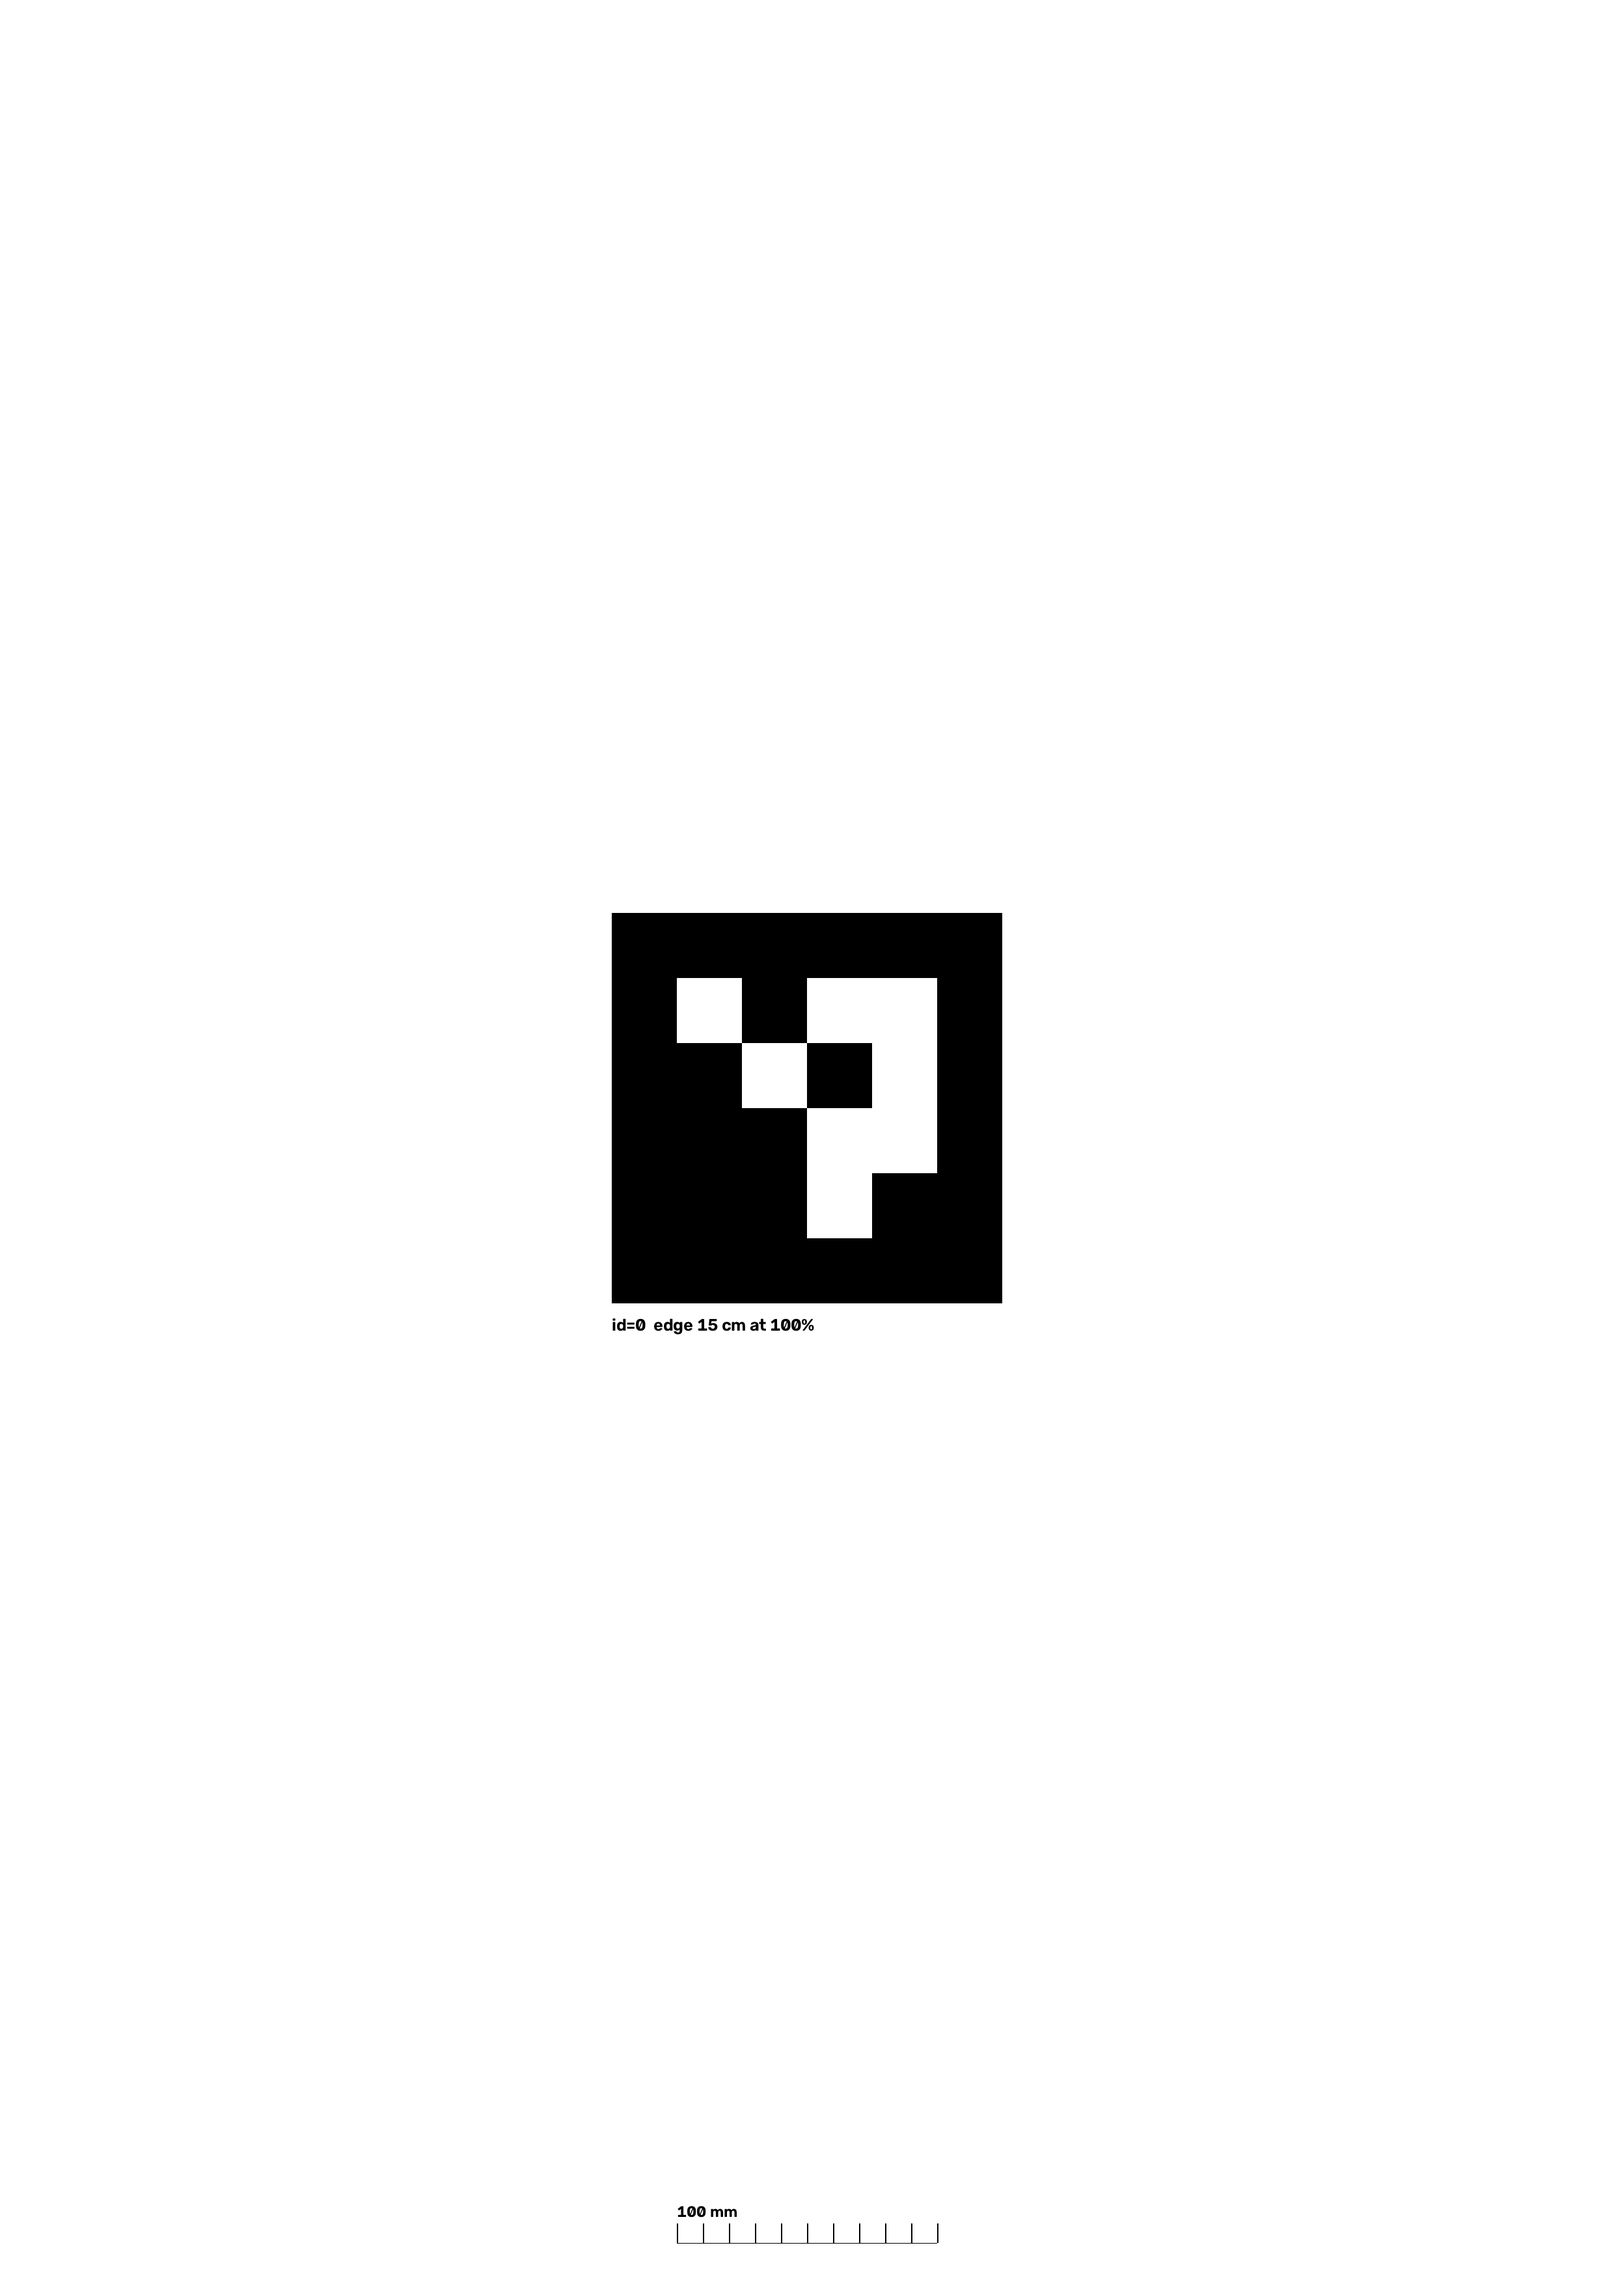
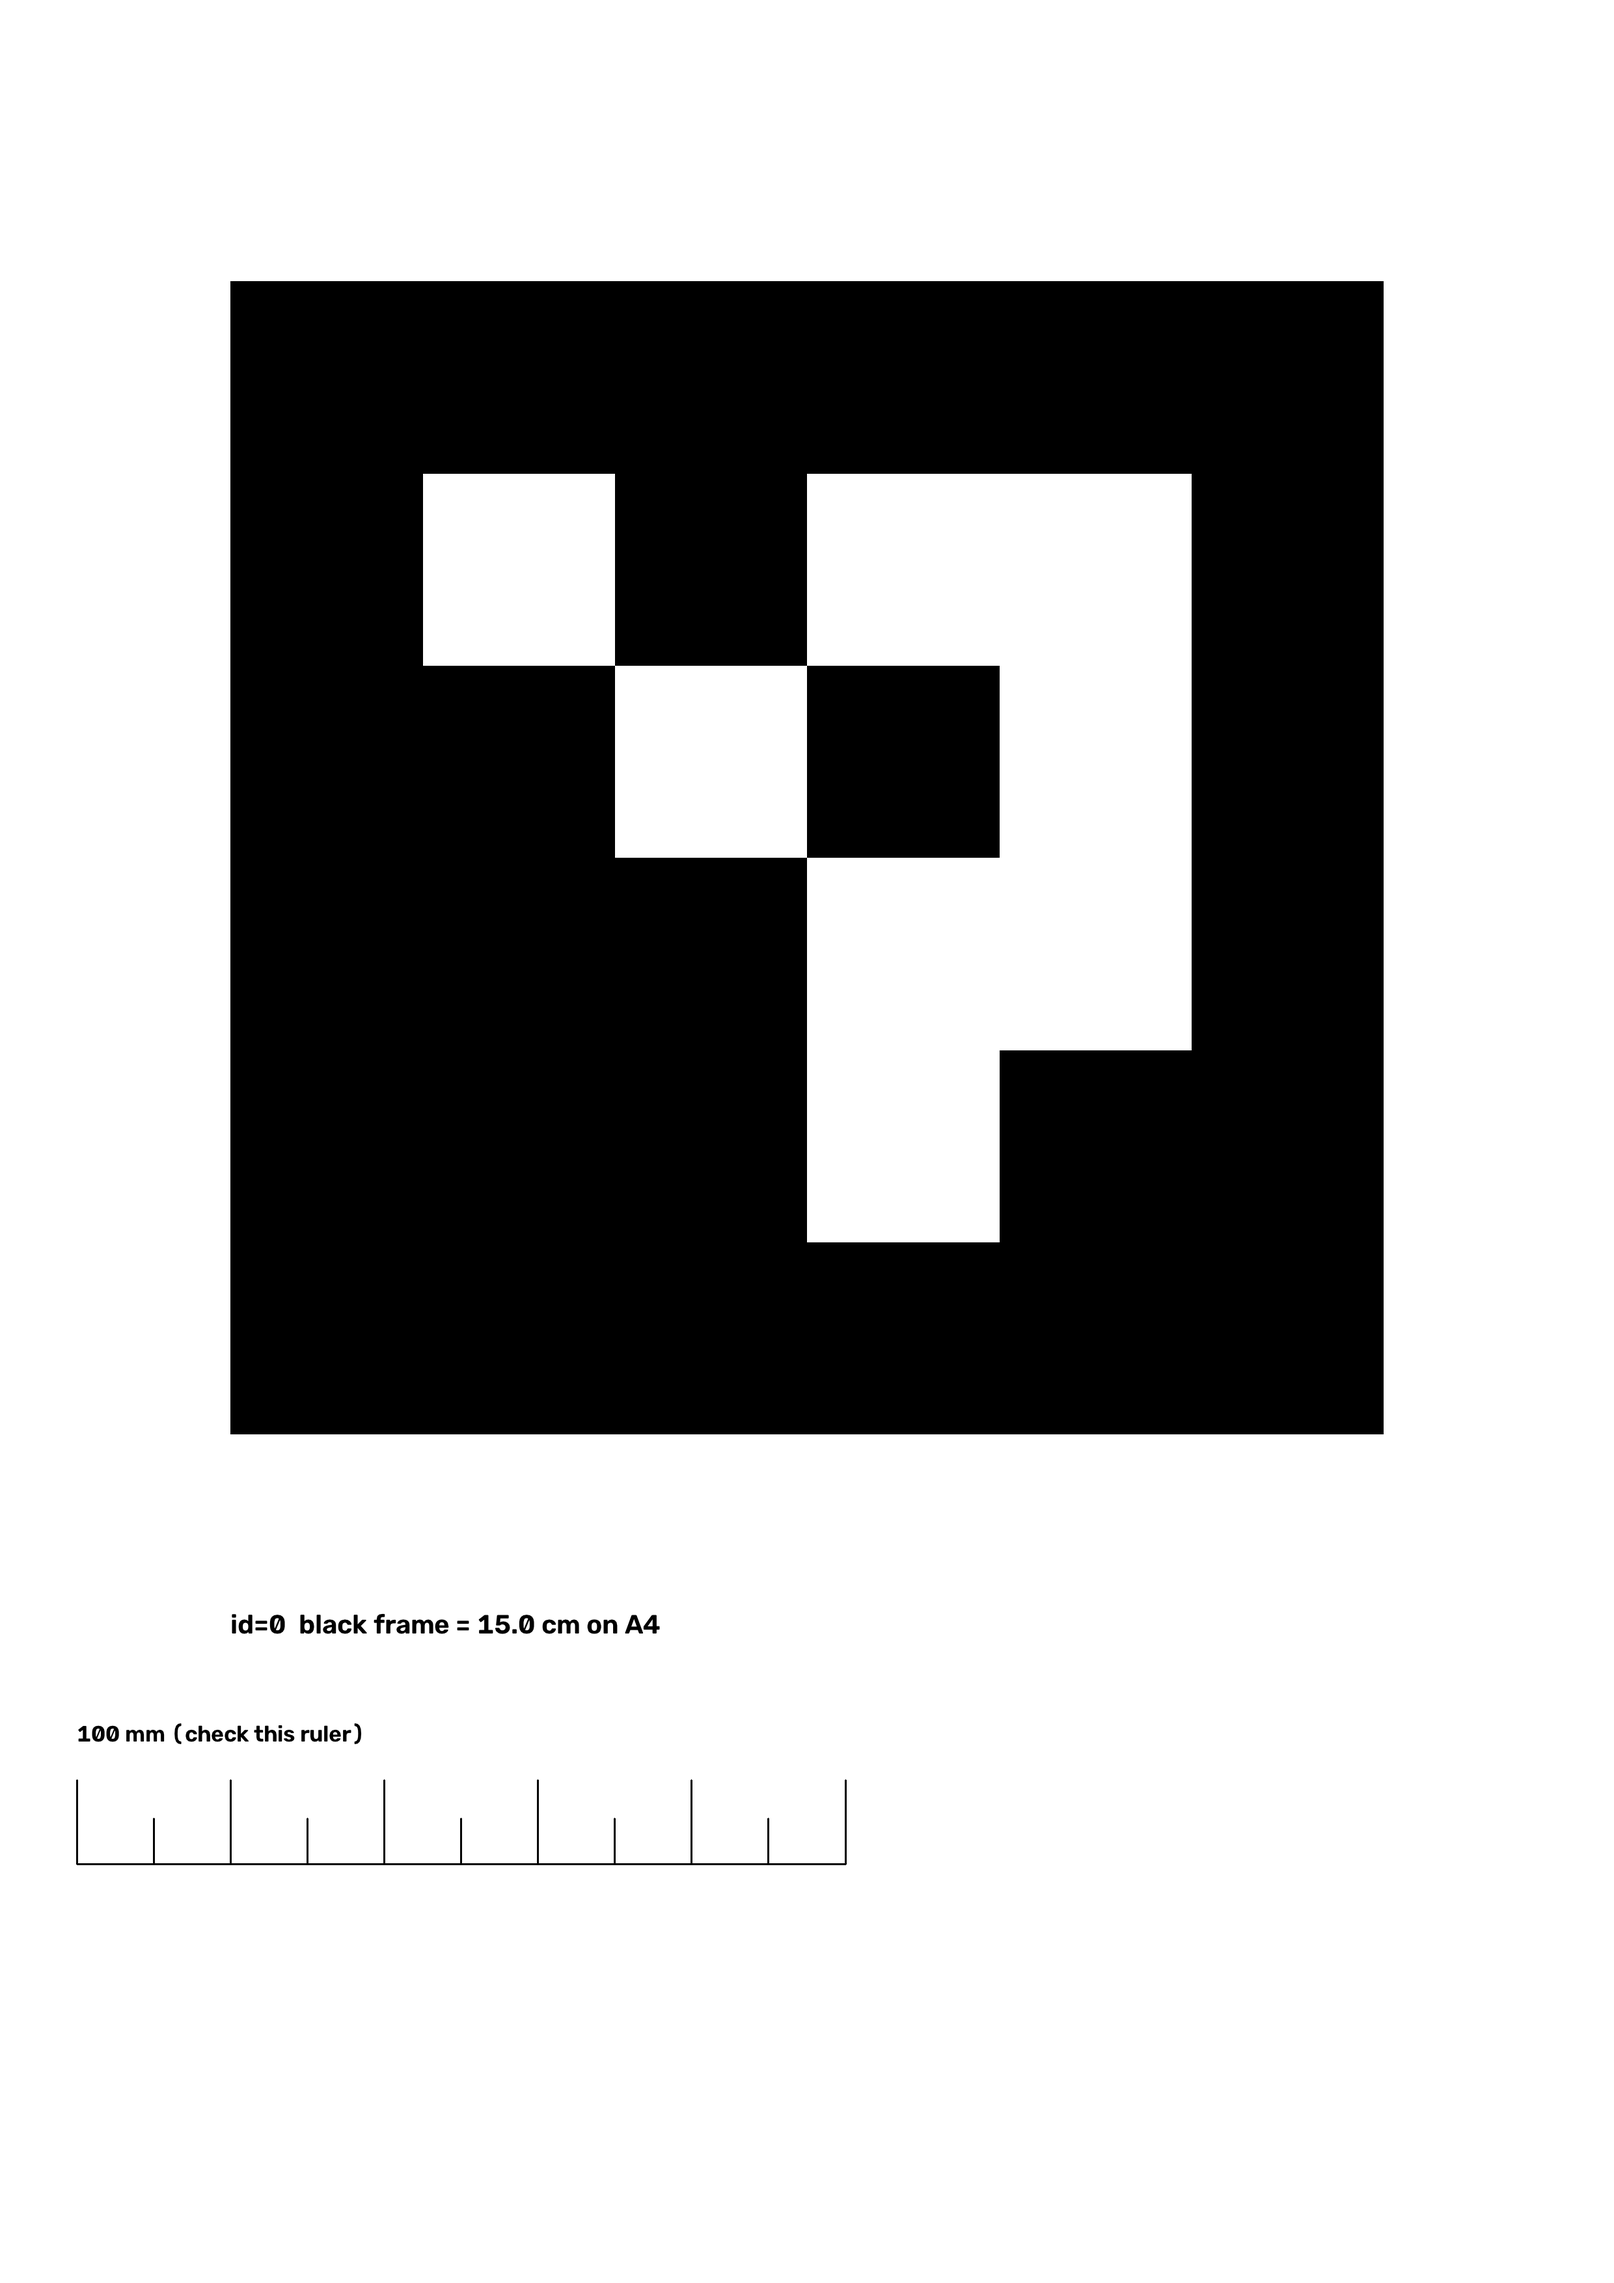
marker print assets: gen_marker_sheet rework -- exact 15.0 cm black frame at 300 dpi full-bleed A4 (native uncropped markers, outer frame == page pixel size), 100 mm ruler to verify printer scaling, 6-up 60 mm dry-run sheet, detector self-check; regenerate marker_00-05_A4 + marker_sheet_6up_A4 PNGs

diff --git a/vo/gen_marker_sheet.py b/vo/gen_marker_sheet.py
@@ -1,24 +1,30 @@
 # -*- coding: utf-8 -*-
 """Generate printable A4 ArUco marker sheets for the indoor-GPS build.
 
-runbook step A prints marker_00..05 (DICT_4X4_50) at ~15 cm edge. This
-script produces what the printer needs:
+runbook step A prints marker_00..05 (DICT_4X4_50) with an EXACT 15 cm black
+frame. The A4 page is laid out at 300 dpi (2480 x 3508 px), so a full-bleed
+A4 hardcopy maps page width to 210 mm; a marker whose black frame must be
+150 mm is therefore round(150 * 300 / 25.4) = 1772 px.
 
-  * one A4 page per marker: marker centered with a 15 cm edge when printed
-    at 100% (actual size) -- the recommended size for step G, bigger =
-    more pixels on camera = higher localisation accuracy;
-  * a 6-up A4 sheet (2x3 grid) with a smaller edge for fast pre-deploy
-    dry-run scanning (step C).
+cv2.aruco.generateImageMarker() emits a marker whose black outer frame runs
+edge-to-edge (no white margin); the solver measures the outer edge of that
+black frame, so the page pixel number IS the frame size. The white A4 page
+itself provides the surround that the detector needs, so markers are placed
+natively (never cropped - cropping native output cuts into the data cells and
+kills decoding). Every page also carries a real 100 mm ruler
+(round(100 * 300 / 25.4) = 1181 px) to verify the printer's scaling:
+if the ruler reads 100 mm the frames are exactly 15.0 cm; if the printer
+shrinks to its printable area the ruler reads proportionally less and the
+measured frame must be fed to localise_video.py --marker-m /
+tests/test_marker_detect.py --marker-length.
 
-Every page carries a 50 px id label under the marker and a 100 mm scale
-bar so print scaling can be verified like the chessboard ruler.
+Produced:
+  * marker_00..05_A4.png     : one marker per A4 page, black frame exactly
+                               150.0 mm when printed full-bleed to A4;
+  * marker_sheet_6up_A4.png  : 2x3 A4 dry-run sheet, 60.0 mm black frames.
 
 Usage:
   python vo/gen_marker_sheet.py --out markers/printable/
-
-After printing 100% check any 100 mm bar == 100 mm, then measure the real
-marker edge and feed that value to localise_video.py --marker-m and
-tests/test_marker_detect.py --marker-length.
 """
 import argparse
 import os
@@ -28,74 +34,86 @@ import numpy as np
 
 DICT = getattr(cv2.aruco, "DICT_4X4_50")
 IDS = [0, 1, 2, 3, 4, 5]
-SQ_15CM_PX = 600          # marker_XX.png size -> 15 cm at the source DPI
-LABEL_PX = 50
-BAR_100MM_PX = 400
+PPMM = 300.0 / 25.4                      # px per mm (A4 at 300 dpi)
+SQ_150MM_PX = int(round(150 * PPMM))     # 1772 px == 150 mm on A4
+SIXUP_60MM_PX = int(round(60 * PPMM))    # 709 px  == 60 mm on A4
+BAR_100MM_PX = int(round(100 * PPMM))    # 1181 px == 100 mm on A4
 
 
-def marker_img(mid, edge_px):
+def native_marker(mid, edge_px):
+    """Full-bleed native marker: black outer frame edge == edge_px (never crop)."""
     d = cv2.aruco.getPredefinedDictionary(DICT)
     return cv2.aruco.generateImageMarker(d, mid, edge_px)
 
 
-def page(single_id=None, edge_px=SQ_15CM_PX):
-    """A4 (300 dpi) with one centered marker of the given edge in mm-as-px."""
-    A4 = (int(210.0 / 25.4 * 300), int(297.0 / 25.4 * 300))
-    W, H = A4
-    canvas = np.full((H, W), 255, np.uint8)
-    if single_id is not None:
-        img = marker_img(single_id, edge_px)
-        x0 = (W - edge_px) // 2
-        y0 = (H - edge_px) // 2 - LABEL_PX
-        canvas[y0:y0 + edge_px, x0:x0 + edge_px] = img
-        cv2.putText(canvas, "id=%d  edge 15 cm at 100%%" % single_id,
-                    (x0, y0 + edge_px + LABEL_PX - 8),
-                    cv2.FONT_HERSHEY_SIMPLEX, 0.9, 0, 2)
-    # scale bar
-    by = H - 60
-    bx0 = (W - BAR_100MM_PX) // 2
-    canvas[by, bx0:bx0 + BAR_100MM_PX] = 0
+def ruler_on(canvas, x0, y0, length_px, label):
+    cv2.line(canvas, (x0, y0), (x0 + length_px - 1, y0), 0, 2)
     for mm in range(0, 101, 10):
-        x = bx0 + int(mm * BAR_100MM_PX / 100)
-        canvas[by - 30:by, x:x + 2] = 0
-    cv2.putText(canvas, "100 mm", (bx0, by - 40),
-                cv2.FONT_HERSHEY_SIMPLEX, 0.8, 0, 2)
+        x = x0 + int(mm * length_px / 100)
+        h = int(11 * PPMM) if mm % 20 == 0 else int(6 * PPMM)
+        cv2.line(canvas, (x, y0 - h), (x, y0), 0, 2)
+    cv2.putText(canvas, label, (x0, y0 - int(16 * PPMM)),
+                cv2.FONT_HERSHEY_SIMPLEX, 1.2, 0, 2)
+
+
+def page(mid):
+    W, H = int(round(210 * PPMM)), int(round(297 * PPMM))
+    canvas = np.full((H, W), 255, np.uint8)
+    img = native_marker(mid, SQ_150MM_PX)
+    e = img.shape[0]
+    x0 = (W - e) // 2
+    label_h = int(8 * PPMM) + int(18 * PPMM)
+    ruler_h = int(48 * PPMM)
+    y_top = (H - (e + label_h + ruler_h)) // 2
+    canvas[y_top:y_top + e, x0:x0 + e] = img
+    label_y = y_top + e + int(8 * PPMM)
+    cv2.putText(canvas, "id=%d  black frame = 15.0 cm on A4" % mid,
+                (x0, label_y + int(18 * PPMM)), cv2.FONT_HERSHEY_SIMPLEX,
+                1.4, 0, 2)
+    ruler_on(canvas, int(10 * PPMM), label_y + int(48 * PPMM),
+             BAR_100MM_PX, "100 mm (check this ruler)")
     return canvas
 
 
-def sheet_6up(cell_px=380, pad_px=40):
-    A4 = (int(210.0 / 25.4 * 300), int(297.0 / 25.4 * 300))
-    W, H = A4
+def sheet_6up(cell_px=SIXUP_60MM_PX, pad_px=52):
+    W, H = int(round(210 * PPMM)), int(round(297 * PPMM))
     canvas = np.full((H, W), 255, np.uint8)
     ncol, nrow = 2, 3
-    cw = (W - (ncol + 1) * pad_px) // ncol
-    ch = (H - (nrow + 1) * pad_px) // nrow
-    cell = min(cw, ch)
+    pitch_w = (W - (ncol + 1) * pad_px) // ncol
+    pitch_h = (H - (nrow + 1) * pad_px) // nrow
+    cell = min(cell_px, pitch_w - 20, pitch_h - 64)
     for i, mid in enumerate(IDS):
         r, c = divmod(i, ncol)
-        img = marker_img(mid, cell)
-        x0 = pad_px + c * (cell + pad_px)
-        y0 = pad_px + r * (cell + pad_px)
+        img = native_marker(mid, cell)
+        x0 = pad_px + c * (pitch_w + pad_px) + (pitch_w - cell) // 2
+        y0 = pad_px + r * (pitch_h + pad_px) + (pitch_h - cell) // 2
         canvas[y0:y0 + cell, x0:x0 + cell] = img
-        cv2.putText(canvas, "id=%d" % mid, (x0, y0 + cell + 28),
-                    cv2.FONT_HERSHEY_SIMPLEX, 0.8, 0, 2)
+        cv2.putText(canvas, "id=%d %d mm" % (mid, int(cell / PPMM)),
+                    (x0, y0 + cell + int(20 * PPMM)), cv2.FONT_HERSHEY_SIMPLEX,
+                    1.1, 0, 2)
     return canvas
 
 
 def main():
     ap = argparse.ArgumentParser(description=__doc__)
     ap.add_argument("--out", default=r"D:\Things\markers\printable")
-    ap.add_argument("--edge-px", type=int, default=SQ_15CM_PX)
     a = ap.parse_args()
     os.makedirs(a.out, exist_ok=True)
-    n = 0
+    det = cv2.aruco.ArucoDetector(
+        cv2.aruco.getPredefinedDictionary(DICT),
+        cv2.aruco.DetectorParameters())
     for mid in IDS:
         cv2.imwrite(os.path.join(a.out, "marker_%02d_A4.png" % mid),
-                    page(mid, a.edge_px), [cv2.IMWRITE_PNG_COMPRESSION, 9])
-        n += 1
+                    page(mid), [cv2.IMWRITE_PNG_COMPRESSION, 9])
     p6 = os.path.join(a.out, "marker_sheet_6up_A4.png")
     cv2.imwrite(p6, sheet_6up(), [cv2.IMWRITE_PNG_COMPRESSION, 9])
-    print("WROTE %d single pages + 6-up sheet in %s" % (n, a.out))
+    print("WROTE 6 single pages + 6-up sheet in %s" % a.out)
+    print("black frames: 150.0 mm (single), 60.0 mm (6-up) at full-bleed A4")
+    print("print setting: Fit-to-A4 / scale to paper (no %% cropping)")
+    g = cv2.imread(os.path.join(a.out, "marker_00_A4.png"), 0)
+    ids = det.detectMarkers(g)[1]
+    n = sorted(int(x) for x in np.ravel(ids)) if ids is not None and len(ids) else []
+    print("self-check detect marker_00_A4:", n if n else "FAIL (no id)")
 
 
 if __name__ == "__main__":
